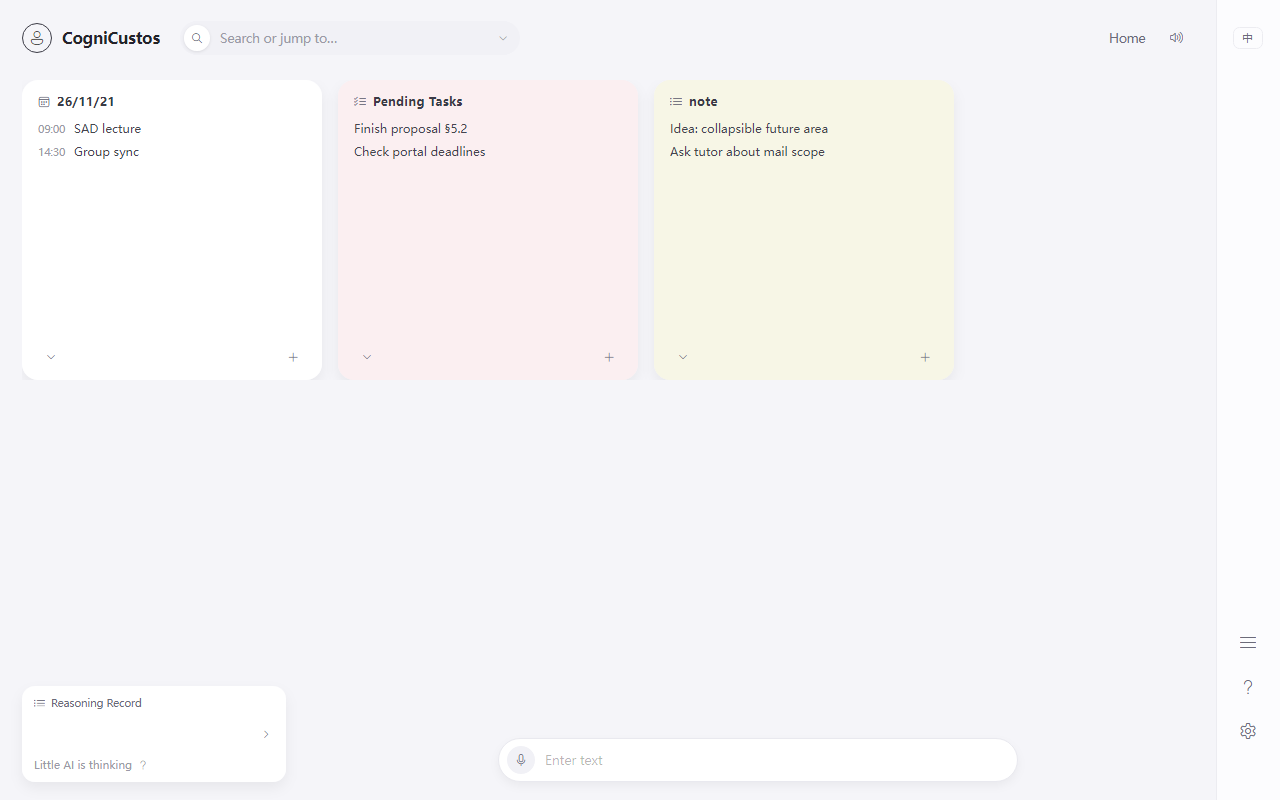
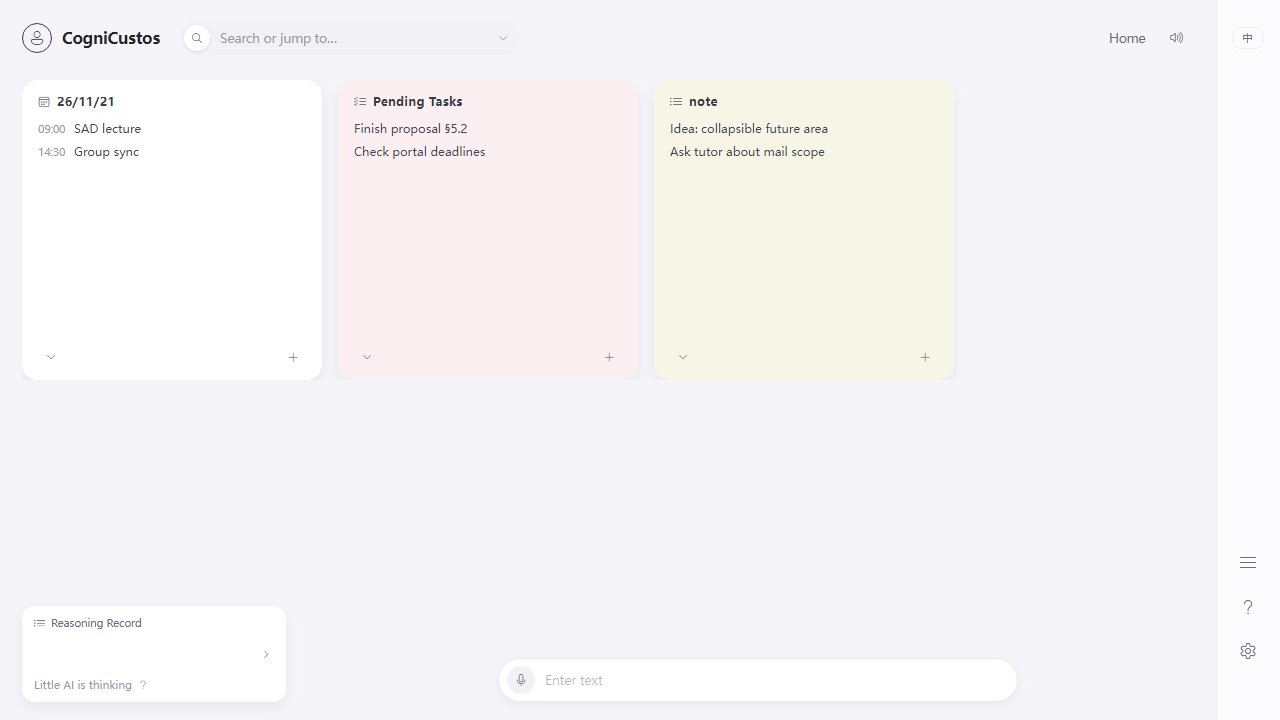
feat(ui): switch the design canvas to 1280x720 (16:9)
Decision from the user: 16:9 canvas, letterbox for other aspect ratios.

- ShellWindow: 1280x720 default, 1024x576 minimum, Viewbox child 1280x720
- scaling assertions updated: 1024x576 -> 0.80, 1280x720 -> 1.00,
  1600x900 -> 1.25, 1920x1080 -> 1.50, 2560x1440 -> 2.00,
  plus a 4:3 case (1024x768) that must still scale 0.80 and letterbox
- docs and README use the new numbers; main screenshot regenerated

Verified: 21/21 tests, Selftest 37/37, shots at five sizes, real window smoke.

diff --git a/tools/CogniCustos.Ui.Tests/Program.cs b/tools/CogniCustos.Ui.Tests/Program.cs
@@ -246,10 +246,12 @@ internal static class Program
         });
 
         // ---- proportional scaling ----
-        Test("canvas_scales_uniformly_at_1024x640", (_, w) => AssertScale(w, 0.8), 1024, 640);
-        Test("canvas_scales_uniformly_at_1280x800", (_, w) => AssertScale(w, 1.0), 1280, 800);
-        Test("canvas_scales_uniformly_at_2560x1440", (_, w) => AssertScale(w, 1.8), 2560, 1440);
-        Test("canvas_scales_uniformly_at_odd_aspect", (_, w) => AssertScale(w, 1.0), 1400, 800);
+        Test("canvas_scales_uniformly_at_1024x576", (_, w) => AssertScale(w, 0.8), 1024, 576);
+        Test("canvas_scales_uniformly_at_1280x720", (_, w) => AssertScale(w, 1.0), 1280, 720);
+        Test("canvas_scales_uniformly_at_1600x900", (_, w) => AssertScale(w, 1.25), 1600, 900);
+        Test("canvas_scales_uniformly_at_1920x1080", (_, w) => AssertScale(w, 1.5), 1920, 1080);
+        Test("canvas_scales_uniformly_at_2560x1440", (_, w) => AssertScale(w, 2.0), 2560, 1440);
+        Test("canvas_letterboxes_at_4x3", (_, w) => AssertScale(w, 0.8), 1024, 768);
 
         Console.WriteLine(_failures == 0 ? "ALL PASS" : $"{_failures} FAILURE(S)");
         return _failures == 0 ? 0 : 1;
@@ -257,12 +259,12 @@ internal static class Program
 
     // ---------- assertions ----------
 
-    /// <summary>The shell always lays out on the fixed 1280x800 canvas and is scaled by the Viewbox.</summary>
+    /// <summary>The shell always lays out on the fixed 1280x720 canvas and is scaled by the Viewbox.</summary>
     private static void AssertScale(ShellWindow window, double expected)
     {
         var view = window.GetVisualDescendants().OfType<ShellView>().First();
         Check(Math.Abs(view.Bounds.Width - 1280) < 0.5, $"canvas width changed: {view.Bounds.Width}");
-        Check(Math.Abs(view.Bounds.Height - 800) < 0.5, $"canvas height changed: {view.Bounds.Height}");
+        Check(Math.Abs(view.Bounds.Height - 720) < 0.5, $"canvas height changed: {view.Bounds.Height}");
 
         var matrix = view.TransformToVisual(window);
         Check(matrix is not null, "no transform to the window");
@@ -274,7 +276,7 @@ internal static class Program
     // ---------- plumbing ----------
 
     private static void Test(string name, Action<ShellViewModel, ShellWindow> body,
-        int width = 1280, int height = 800)
+        int width = 1280, int height = 720)
     {
         // Every test starts from English so the order of tests cannot matter.
         Localizer.SetLanguage(Localizer.English);

diff --git a/docs/UI-SANDBOX.md b/docs/UI-SANDBOX.md
@@ -7,7 +7,7 @@
 src/CogniCustos.Ui/            ← WinExe，可单独运行（Avalonia 12.1.6 / net8.0）
   App.axaml / Program.cs
   ShellWindow.axaml            ← 窗口 + Viewbox（等比缩放），Esc 在窗口级处理
-  Views/ShellView.axaml        ← 1280×800 画布：顶栏 / 卡片 / 推理记录 / 输入条 / 竖排栏 / 抽屉 / 帮助
+  Views/ShellView.axaml        ← 1280×720 画布：顶栏 / 卡片 / 推理记录 / 输入条 / 竖排栏 / 抽屉 / 帮助
   Views/SettingsPage.axaml     ← 设置页（盖住整块画布）
   Resources/Lang.en.axaml      ← 英文文案（可翻译资源）
   Resources/Lang.zh.axaml      ← 中文文案
@@ -20,7 +20,7 @@ src/CogniCustos.Ui/            ← WinExe，可单独运行（Avalonia 12.1.6 / 
   Mvvm/                        ← 极小的 ObservableObject / RelayCommand
 
 tools/CogniCustos.Ui.Shots/    ← 无头渲染：把每个状态导成 PNG（只看图）
-tools/CogniCustos.Ui.Tests/    ← 无头回归：19 条断言，非 0 退出码即失败
+tools/CogniCustos.Ui.Tests/    ← 无头回归：21 条断言，非 0 退出码即失败
 ```
 
 ## 一、等比缩放（任何分辨率都保持示例图的比例）
@@ -29,24 +29,25 @@ tools/CogniCustos.Ui.Tests/    ← 无头回归：19 条断言，非 0 退出码
 
 ```xml
 <Viewbox Stretch="Uniform" StretchDirection="Both">
-  <views:ShellView Width="1280" Height="800" />
+  <views:ShellView Width="1280" Height="720" />
 </Viewbox>
 ```
 
-即：**整块界面按 1280×800 画布排版，然后整体等比缩放到窗口**。
+即：**整块界面按 1280×720 画布（16:9）排版，然后整体等比缩放到窗口**。
 
-- 1280×800 → 1.00×；1024×640 → 0.80×；1920×1080 → 1.35×（两侧留边）；2560×1440 → 1.80×（两侧留边）。
+- 1024×576 → 0.80×；1280×720 → 1.00×；1920×1080 → 1.50×；2560×1440 → 2.00×。
+- 16:9 显示器上刚好铺满，不留边。
 - 字、间距、卡片、图标全部同比例变化，不会出现"窗口变大只有空白变多"。
-- 缩放是**矢量变换**，文字不会糊（Skia 在最终变换下绘制）。
-- 命中测试、焦点、输入框都跟随缩放，不需要额外处理。
+- 缩放是**矢量变换**，文字不会糊（Skia 在最终变换下绘制）；命中测试与焦点跟随缩放。
 
-取舍：
+取舍（已定）：
 
-| 需求 | 做法 |
+| 情况 | 处理 |
 |---|---|
-| 不同比例显示器（16:9 / 21:9） | 现在是留边（`Uniform`）。想改成裁切填满 → 换 `Stretch="UniformToFill"` |
-| 想连窗口比例一起锁死 | 在 `ShellWindow` 里按 1.6 约束 `Width/Height`（会挡住用户自由拉伸） |
-| 想改设计基准尺寸 | 改 `ShellView` 的 `Width/Height` 与像素值即可，画布整体比例随之变化 |
+| 16:9 窗口 | 铺满 |
+| 非 16:9（4:3、21:9） | **留边**（`Uniform`），不裁切、不变形 —— 这是你选的方案 |
+| 想改成裁切填满 | 把 `Stretch` 换成 `UniformToFill`（会切掉约 5% 边缘） |
+| 想改设计基准 | 改 `ShellView` 的 `Width/Height` 与像素常量，整块画布比例随之变化 |
 
 ## 二、文本资源与翻译
 
@@ -72,7 +73,7 @@ var label = Localizer.Get("Card.Row.New");
 2. `Localizer.KnownLanguages` 加上 `"ja"`；
 3. 若要 UI 里能切到它，把 `NextLanguage()` 改成循环或加一个语言菜单。
 
-翻译质量由测试兜底（见下），键名拼错会返回 `!key!` 并在界面上露出来，不会静默变空。
+翻译质量由测试兜底：键集合不一致、空值、缺键都会让测试变红；运行时缺键会显示 `!Some.Key!` 而不是静默变空。
 
 ## 三、运行与调试（VS Code）
 
@@ -80,7 +81,7 @@ var label = Localizer.Get("Card.Row.New");
 |---|---|
 | 跑窗口 | `F5` → `UI: run the window (CogniCustos.Ui)`；或 `dotnet run --project src/CogniCustos.Ui` |
 | 跑回归 | `F5` → `UI: run regression tests`；或 `dotnet run --project tools/CogniCustos.Ui.Tests` |
-| 出图 | `F5` → `UI: render screenshots headlessly`；或 `dotnet run --project tools/CogniCustos.Ui.Shots -- artifacts/ui 1280 800` |
+| 出图 | `F5` → `UI: render screenshots headlessly`；或 `dotnet run --project tools/CogniCustos.Ui.Shots -- artifacts/ui 1280 720` |
 | 只预览 XAML | 打开 `Views/ShellView.axaml`，Avalonia 扩展的预览器会加载它（构造函数里有 `Design.IsDesignMode` 分支给设计态 VM）。**这一条没能实测**，第一次用预览器时留意 |
 
 > 构建注意：这台机器上 `dotnet build` 在受限沙箱里会因 SChannel / 命名管道被拒，**在 VS Code 里跑不受影响**。
@@ -98,13 +99,13 @@ var label = Localizer.Get("Card.Row.New");
 ## 五、设计约定
 
 - 颜色/字体/图标全在 `Styles/Tokens.axaml`。图标用 Windows **Segoe MDL2 Assets** 字形；数据库图标该字体没有，手绘 `StreamGeometry`。
-- 画布 1280×800：顶栏 76、内容自适应、底部 140、右栏 64；卡片 300×300（折叠 78）。
+- 画布 1280×720：顶栏 76、内容自适应、底部 140、右栏 64；卡片 300×300（折叠 78）。
 - 卡片变体：`CardVariant`（Plain/Pink/Olive）→ `Classes.pink/olive` → 样式。加变体 = 枚举 + 两个 bool + 样式类；要**结构不同**时改按 VM 子类型选模板。
 - 新文案先加进两个 Lang 文件，再在 XAML 用 `DynamicResource`、在 VM 用 `Localizer.Get`。
 
 ## 六、回归测试（tools/CogniCustos.Ui.Tests）
 
-19 条断言，跑在真实可视树上（真按键、真绑定、真缩放）。非 0 退出码即失败。
+21 条断言，跑在真实可视树上（真按键、真绑定、真缩放）。非 0 退出码即失败。
 
 ```
 PASS language_files_have_identical_non_empty_keys   en/zh 键集合完全一致且没有空值
@@ -122,13 +123,15 @@ PASS escape_closes_settings_with_inner_focus
 PASS drawer_and_settings_are_mutually_exclusive
 PASS backdrop_visibility_follows_overlays
 PASS drawer_expands_and_animates_width
-PASS canvas_scales_uniformly_at_1024x640            ← 等比缩放 0.80
-PASS canvas_scales_uniformly_at_1280x800            ← 1.00
-PASS canvas_scales_uniformly_at_2560x1440           ← 1.80
-PASS canvas_scales_uniformly_at_odd_aspect          ← 16:10 以外的比例不扭曲
+PASS canvas_scales_uniformly_at_1024x576            ← 0.80
+PASS canvas_scales_uniformly_at_1280x720            ← 1.00
+PASS canvas_scales_uniformly_at_1600x900            ← 1.25
+PASS canvas_scales_uniformly_at_1920x1080           ← 1.50
+PASS canvas_scales_uniformly_at_2560x1440           ← 2.00
+PASS canvas_letterboxes_at_4x3                      ← 4:3 只上下留边，仍等比
 ```
 
-缩放断言的做法：外壳必须始终以 1280×800 布局（`Bounds`），再由 `TransformToVisual(window)` 读出的矩阵必须是 `s=0.8/1.0/1.8` 且 M11==M22（等比、不拉伸）。
+缩放断言的做法：外壳必须始终以 1280×720 布局（`Bounds`），再由 `TransformToVisual(window)` 读出的矩阵必须是预期的 `s` 且 M11==M22（等比、不拉伸）。
 
 用控制台断言而不是 xunit：`Avalonia.Headless.XUnit 12.x` 依赖 xunit.v3，多一层版本耦合不值得；退出码已经够当门禁。
 
@@ -141,7 +144,7 @@ home  drawer  expanded  settings  help  collapsed  toast  settings-zh  settings-
 ```
 
 `settings-deep` 用来看"先选中第 6 项再切中文"是否还保持选中（历史 bug A）。
-常用尺寸：`1280 800`、`1024 640`、`1920 1080`、`2560 1440`。
+常用尺寸：`1280 720`、`1024 576`、`1920 1080`、`2560 1440`、`1024 768`（看留边）。
 
 ## 八、版本与依赖
 
@@ -150,18 +153,17 @@ home  drawer  expanded  settings  help  collapsed  toast  settings-zh  settings-
 
 ## 九、已知限制
 
-1. **比例锁在 1.6:1**：非 16:10 的窗口会留边（这是"保持示例图比例"的直接结果）。要填满就换 `UniformToFill`（会裁掉边缘）。
-2. **文字随窗口缩**：1024×640 时 11.5px 正文变成约 9px。如果觉得小，提高最小窗口尺寸或把画布基准调到 1120×700。
+1. **比例锁在 16:9**：非 16:9 窗口会留边（这是"保持示例图比例"的直接结果）。
+2. **文字随窗口缩**：1024×576 时 11.5px 正文变成约 9px。觉得小就提高最小窗口尺寸（现在 1024×576）或把画布基准调大。
 3. **DPI**：缩放让比例与 DPI 无关，但 150%/200% 下的实际字号观感还没实测。
 4. 无边框标题栏、抽屉 7 个图标的目标页、设置分区表单、推理记录展开态都还没做——会改设计，等你拍板。
 5. 预览器的实际渲染没验证过。
+6. 译文过长可能撑出固定宽度（例如 52px 的抽屉图标标签）。加语言时留意长词，必要时给那几处放宽或改省略号。
 
 ## 十、变更记录
 
-**第 4 轮（2026-11-21）：等比缩放 + 文案资源化**
+**第 5 轮（2026-11-21）**：画布从 1280×800 改为 **1280×720（16:9）**；窗口默认 1280×720、最小 1024×576；缩放断言扩到 6 组（含 4:3 留边）。
 
-- `ShellWindow` 引入 `Viewbox`，画布固定 1280×800，整体等比缩放；最小窗口 1024×640。
-- 新增 `Resources/Lang.en.axaml`、`Lang.zh.axaml` 与 `Localizer`；`Strings.cs` 删除，XAML 改 `DynamicResource`，VM 改 `Localizer.Get`。
-- 回归测试从 12 条扩到 19 条，加入资源一致性、DynamicResource 刷新、四组缩放断言。
+**第 4 轮（2026-11-21）**：等比缩放（Viewbox）+ 文案资源化（`Lang.*.axaml` + `Localizer`），`Strings.cs` 删除；回归 12 → 19 条。
 
-**第 3 轮（2026-11-20）：四个 bug + 回归工程**（详见 commit `3144fd5`）
+**第 3 轮（2026-11-20）**：四个 bug + 回归工程（commit `3144fd5`）。
